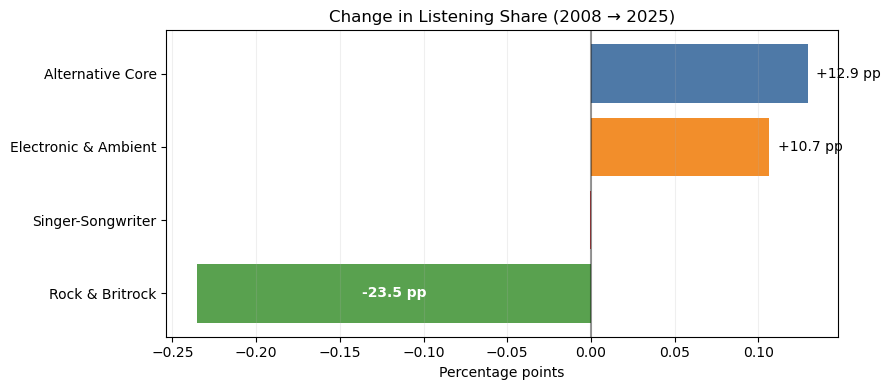
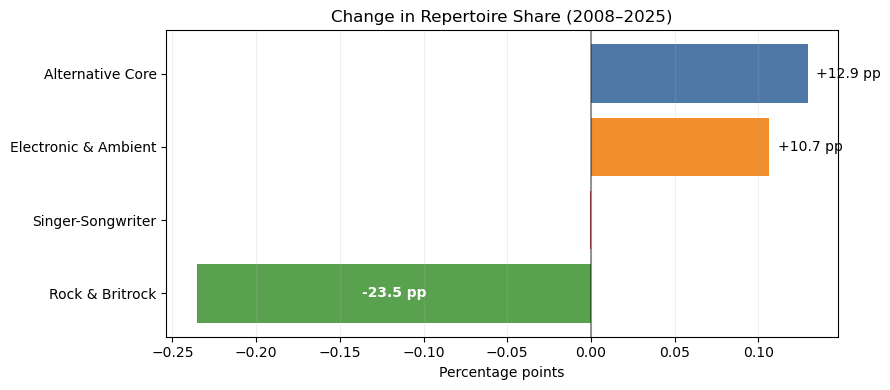
README updated

Changed region(s): [[0.364, 0.0, 0.7584, 0.0615]]

diff --git a/README.md b/README.md
@@ -69,11 +69,11 @@ PyTorch 2.2.2, and Transformers 4.57.6.
 
 # Music Taste Evolution (2007–2026)
 
-This project explores 19 years of personal listening history using Last.fm data, genre-tag enrichment, TF-IDF vectorization, UMAP projection and clustering techniques. The goal was to understand how musical preferences evolved over time and identify long-term trends in discovery, diversity and genre composition.
+This project explores 19 years of personal listening history using Last.fm data, genre-tag enrichment, TF-IDF vectorization, UMAP projection and clustering techniques. The analysis focuses on long-term changes in musical preferences, discovery, diversity and genre composition.
 
 ## Problem statement
 
-The purpose of this experiment was to analyse the evolution of musical preferences over the last 19 years, based on 72,823 unique artist–track combinations and 13,701 unique artists enriched with genre metadata. Although the listening history spans 2007–2026, only complete years (2008–2025) were included in the temporal analyses to avoid sampling bias.
+The experiment examines 19 years of listening history, based on 72,823 unique artist–track combinations and 13,701 unique artists enriched with genre metadata. Although the listening history spans 2007–2026, only complete years (2008–2025) were included in the temporal analyses to avoid sampling bias.
 
 ## Analytical unit
 
@@ -90,9 +90,6 @@ This allows the experiment to focus on changes in the listening repertoire and m
 - Raw Last.fm scrobbles: 548,597
 - Analytical dataset: 72,823 unique artist–track combinations
 - Unique artists: 13,701
-
-**Analytical unit**
-- Unique artist–track combinations after cleaning and normalization
 
 ## Experiment pipeline
 ```
@@ -145,13 +142,13 @@ The musical repertoire became increasingly centered around Alternative Core and 
 
 ![Change in Listening Share](docs/images/share_change.png)
 
-Between 2008 and 2025, listening shifted away from Rock & Britrock (-23.5 pp) toward Alternative Core (+12.9 pp) and Electronic & Ambient (+10.7 pp), while Singer-Songwriter preferences remained stable.
+Between 2008 and 2025, the share of Rock & Britrock in the listening repertoire decreased by 23.5 percentage points, while Alternative Core (+12.9 pp) and Electronic & Ambient (+10.7 pp) gained share. Singer-Songwriter remained relatively stable.
 
 **Key findings**
 
-• Alternative Core remained the largest listening category throughout the period.
+• Alternative Core remained the largest music cluster throughout the period.
 
-• Electronic & Ambient more than doubled its listening share.
+• Electronic & Ambient more than doubled its share of the yearly repertoire.
 
 • Rock & Britrock lost over 20 percentage points between 2008 and 2025.
 
@@ -161,7 +158,7 @@ Between 2008 and 2025, listening shifted away from Rock & Britrock (-23.5 pp) to
 
 ![Music discovery](docs/images/discovery.png)
 
-Early years (2008-2014) were characterized by active exploration and gradual expansion of the listening library. Discovery activity peaked between 2016 and 2017, with more than 1,500 newly explored artists in a single year. Although discovery activity declined after the peak, it remained stable and significantly higher than during the first years of listening history.
+Between 2008 and 2014, the listening library expanded steadily as new artists were discovered. Music discovery peaked in 2017, with more than 1,500 new artists added to the listening repertoire. Although discovery activity declined after the peak, it remained stable and significantly higher than during the first years of listening history.
 
 This raises an interesting question: did increased music discovery translate into greater diversity of musical preferences?
 
@@ -178,7 +175,7 @@ How much of the yearly repertoire was represented by my top 20 artists?
 
 ![Artist concentration over time](docs/images/concentration.png)
 
-The annual repertoire became progressively less concentrated around a small group of recurring artists. The share of the yearly repertoire represented by the top 20 artists fell from 47% in 2010 to below 10% in 2021, reflecting a broader and more exploratory listening pattern.
+The annual repertoire became less concentrated among a small group of artists. The share of the yearly repertoire represented by the top 20 artists fell from 47% in 2010 to below 10% in 2021.
 
 ### 5. Top artists by era
 
@@ -195,7 +192,7 @@ How did these shifts manifest in the listening repertoire?
 
 How often do artists remain part of the yearly repertoire from one year to the next?
 
-![alt text](docs/images/retention.png)
+![Artist retention over time](docs/images/retention.png)
 
 Artist continuity remained relatively stable throughout the years. While a core group of artists persisted across consecutive years (25-35%), the majority of the repertoire was regularly refreshed with newly explored music.
 
@@ -264,7 +261,7 @@ NRC vs. Transformer Comparison
 
 Lyrics were cleaned and filtered to English-language tracks before emotion analysis.
 
-Two complementary approaches were used:
+Two NLP approaches were used:
 
 - **NRC Emotion Lexicon (EmoLex)** was used to calculate track-level lexical
   sentiment and emotion shares based on word-emotion associations.
@@ -285,9 +282,7 @@ The contextual transformer analysis identified fear (~29%) and sadness (~24%)
 as the strongest emotions across the dataset, while joy had a substantially lower
 mean predicted probability (~4%).
 
-Despite some variation across eras, the results do not indicate a simple shift
-from positive to negative emotional content. Instead, individual emotions follow
-distinct temporal trajectories.
+Emotion profiles varied across eras, with different emotions following distinct temporal trends.
 
 ### 2. Transformer emotion profile by macro-cluster
 
@@ -296,9 +291,6 @@ distinct temporal trajectories.
 Emotion profiles differed across music clusters. Electronic & Ambient showed
 relatively high sadness, Singer-Songwriter high fear, and Rock & Britrock relatively
 high anger.
-
-These differences suggest that emotional variation is associated not only with
-time, but also with changes in the composition of the musical repertoire.
 
 ## NRC vs. Transformer
 
@@ -309,8 +301,6 @@ emotion profiles. NRC profiles were dominated by lexical associations with joy,
 whereas the contextual transformer predominantly identified fear or sadness.
 
 Several temporal trends were nevertheless directionally consistent across methods. The results suggest that lexical and contextual approaches provide different perspectives on emotional language.
-
-The transformer-based results form the basis of the contextual emotion analysis.
 
 ## Limitations
 
@@ -369,7 +359,7 @@ in the Installation section.
 # Notes
 
 The notebooks were developed incrementally during the project.
-Intermediate artifacts were exported as CSV files for maximum compatibility across environments
+Intermediate artifacts were exported as CSV files for maximum compatibility across environments.
 
 # References
 
